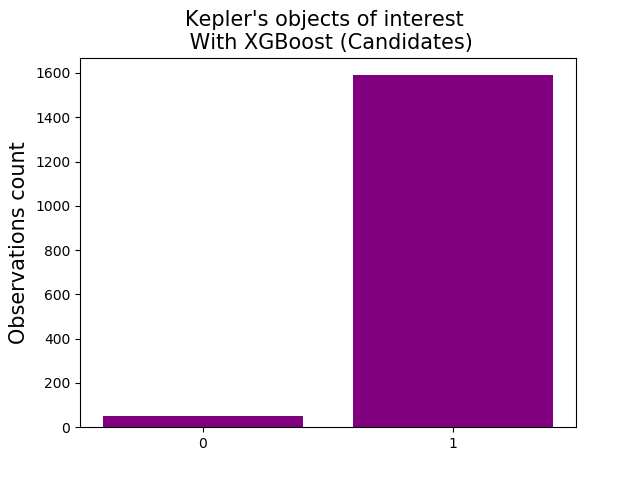
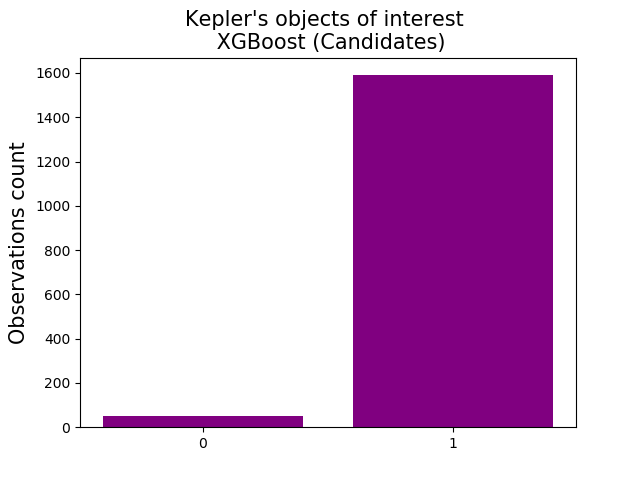
Many small updates. New plots

Changed region(s): [[0.2812, 0.0625, 0.75, 0.125]]

diff --git a/Project3/xgboost_test.py b/Project3/xgboost_test.py
@@ -52,7 +52,6 @@ def XG_Boost(X_train, X_test, y_train, y_test, candidates, GoldiLock,   \
 
                   }
 
-
     A = xgb.XGBClassifier(learning_rate = 0.1,
                           max_depths=2,
                           min_child_weight=0,
@@ -89,8 +88,8 @@ def XG_Boost(X_train, X_test, y_train, y_test, candidates, GoldiLock,   \
 
     if plot_confuse_matrix == True:
         skplt.metrics.plot_confusion_matrix(y_test, best_preds)
+        plt.savefig('ConfusionMatrix/CM_XG.png')
         plt.show()
-
 
     pred_cand  = model2.predict(candidates)
     print(pred_cand)
@@ -109,9 +108,8 @@ def XG_Boost(X_train, X_test, y_train, y_test, candidates, GoldiLock,   \
     #plot_importance(y_pred)
     #pyplot.show()
 
-    if plot_confuse_matrix == True:
-        # Plotting a bar plot of candidates predicted as confirmed and false positives
-        func.Histogram2(pred_cand, method='XGBoost (Candidates)')
+    # Plotting a bar plot of candidates predicted as confirmed and false positives
+    func.Histogram2(pred_cand, method='XGBoost (Candidates)')
 
 
     if Goldilock_zone:
@@ -134,4 +132,4 @@ def XG_Boost(X_train, X_test, y_train, y_test, candidates, GoldiLock,   \
         # Plotting a bar plot of candidates predicted as confirmed and false positives
         func.Histogram2(predict_goldilocks, method='XGBoost (Goldilock)')
 
-        GL.GoldilocksZone(predict_goldilocks)
+        GL.GoldilocksZone(predict_goldilocks, 'XGBoost')

diff --git a/Project3/goldilock.py b/Project3/goldilock.py
@@ -14,7 +14,7 @@ import pandas as pd
 import numpy  as np
 import matplotlib.pylab as plt
 
-def GoldilocksZone(fil_):
+def GoldilocksZone(fil_, method):
 
 	# import files
 	cwd      = os.getcwd()
@@ -45,8 +45,10 @@ def GoldilocksZone(fil_):
 	#plt.style.use('dark_background')
 	plt.plot(inside['koi_prad'], inside['koi_teq'], 'go', label='Predicted confirmed')
 	plt.plot(outside['koi_prad'], outside['koi_teq'], 'm^', label='Predicted false positive') #m
-	plt.legend(fontsize=15)
-	plt.title('Predicted planets in Goldilock zone', fontsize=15)
+
+	plt.title('Predicted planets in Goldilock zone \n %s' %method, fontsize=15)
 	plt.xlabel('Planet radii [Earth radii]', fontsize=15)
 	plt.ylabel('Planet surface temperature', fontsize=15)
+	plt.legend(fontsize=15)
+	plt.savefig('hab_exoplanets/scatter_%s.png' % method)
 	plt.show()

diff --git a/Project3/functions.py b/Project3/functions.py
@@ -89,7 +89,7 @@ def Histogram2(g, method):
 	plt.bar(labels, counts, align='center', color='purple')
 	plt.gca().set_xticks(labels)
 	plt.ylabel("Observations count", fontsize=15)
-	plt.title("Kepler's objects of interest \n With %s" % method, fontsize=15)
+	plt.title("Kepler's objects of interest \n %s" % method, fontsize=15)
 	plt.savefig("Histograms/Hist_%s.png" % method)
 	plt.show()
 

diff --git a/Project3/RandomForest.py b/Project3/RandomForest.py
@@ -154,7 +154,7 @@ def Random_Forest(X_train, X_test, y_train, y_test, candidates, GoldiLock,	\
 		# Plotting a bar plot of candidates predicted as confirmed and false positives
 		func.Histogram2(predict_goldilocks[:,1], 'Random Forest (Goldilock)')
 
-		GL.GoldilocksZone(predict_goldilocks[:,1])
+		GL.GoldilocksZone(predict_goldilocks[:,1], 'RandomForest')
 
 
 	'''

diff --git a/Project3/Logistic_reg.py b/Project3/Logistic_reg.py
@@ -107,4 +107,4 @@ def LogReg(X_train, X_test, y_train, y_test, candidates, GoldiLock, seed, Goldil
 		# Need to fix input title, labels etc maybe?
 		func.Histogram2(predict_goldilocks, 'Logistic regression (Goldilock)')
 
-		GL.GoldilocksZone(predict_goldilocks)
+		GL.GoldilocksZone(predict_goldilocks, 'Logistic regression')

diff --git a/Project3/NeuralNetwork.py b/Project3/NeuralNetwork.py
@@ -109,4 +109,4 @@ def NeuralNetwork(X_train, X_test, y_train, y_test, candidates, GoldiLock, seed,
 		# Need to fix input title, labels etc maybe?
 		func.Histogram2(predict_goldilocks, 'Neural Network (Goldilock)')
 
-		GL.GoldilocksZone(predict_goldilocks)
+		GL.GoldilocksZone(predict_goldilocks, 'Neural Network')
